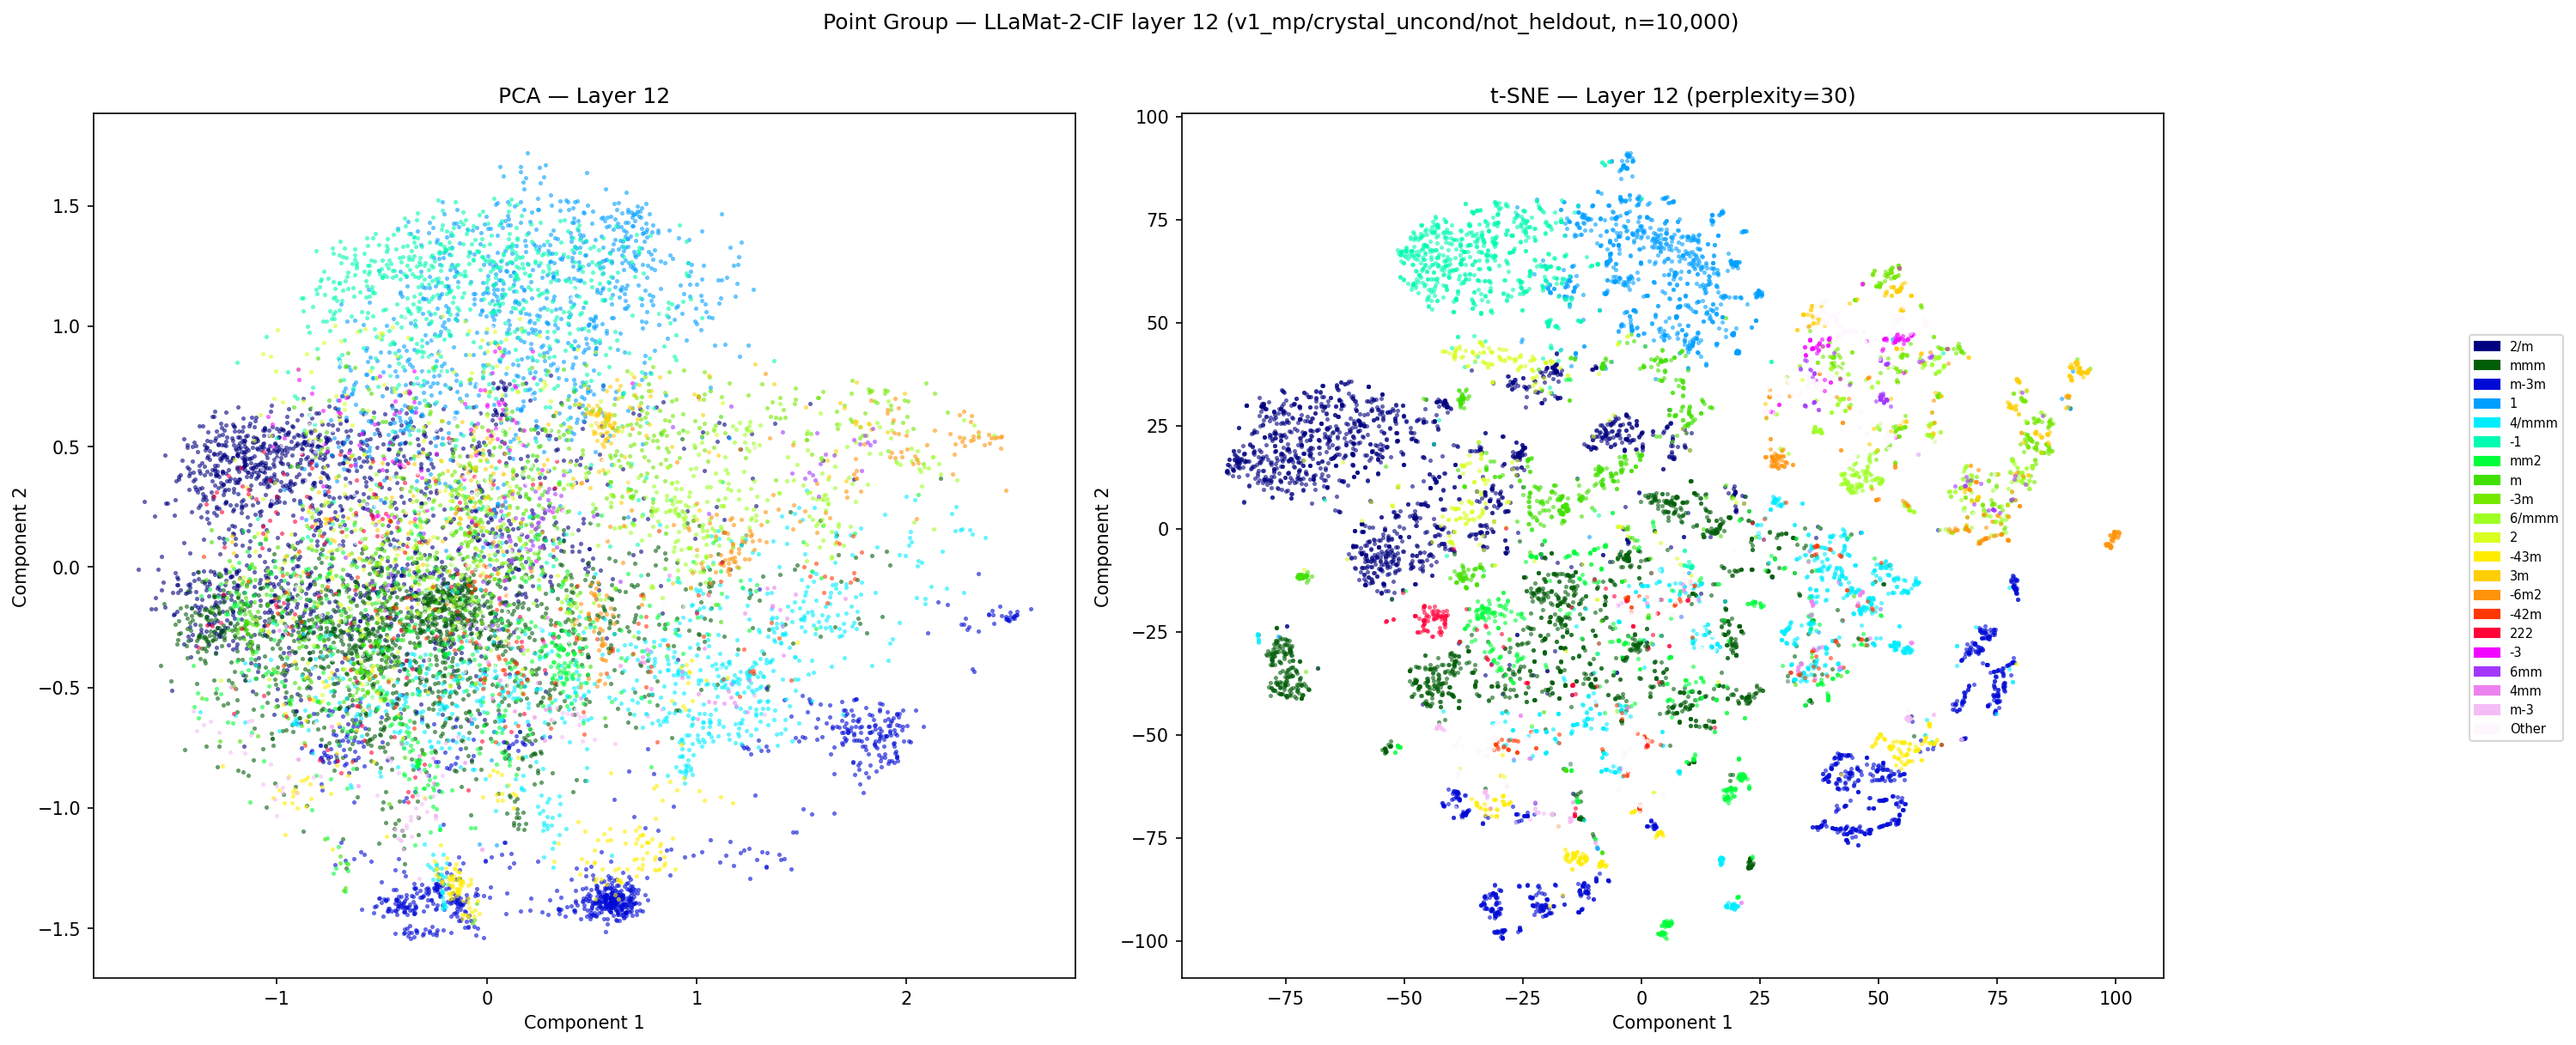
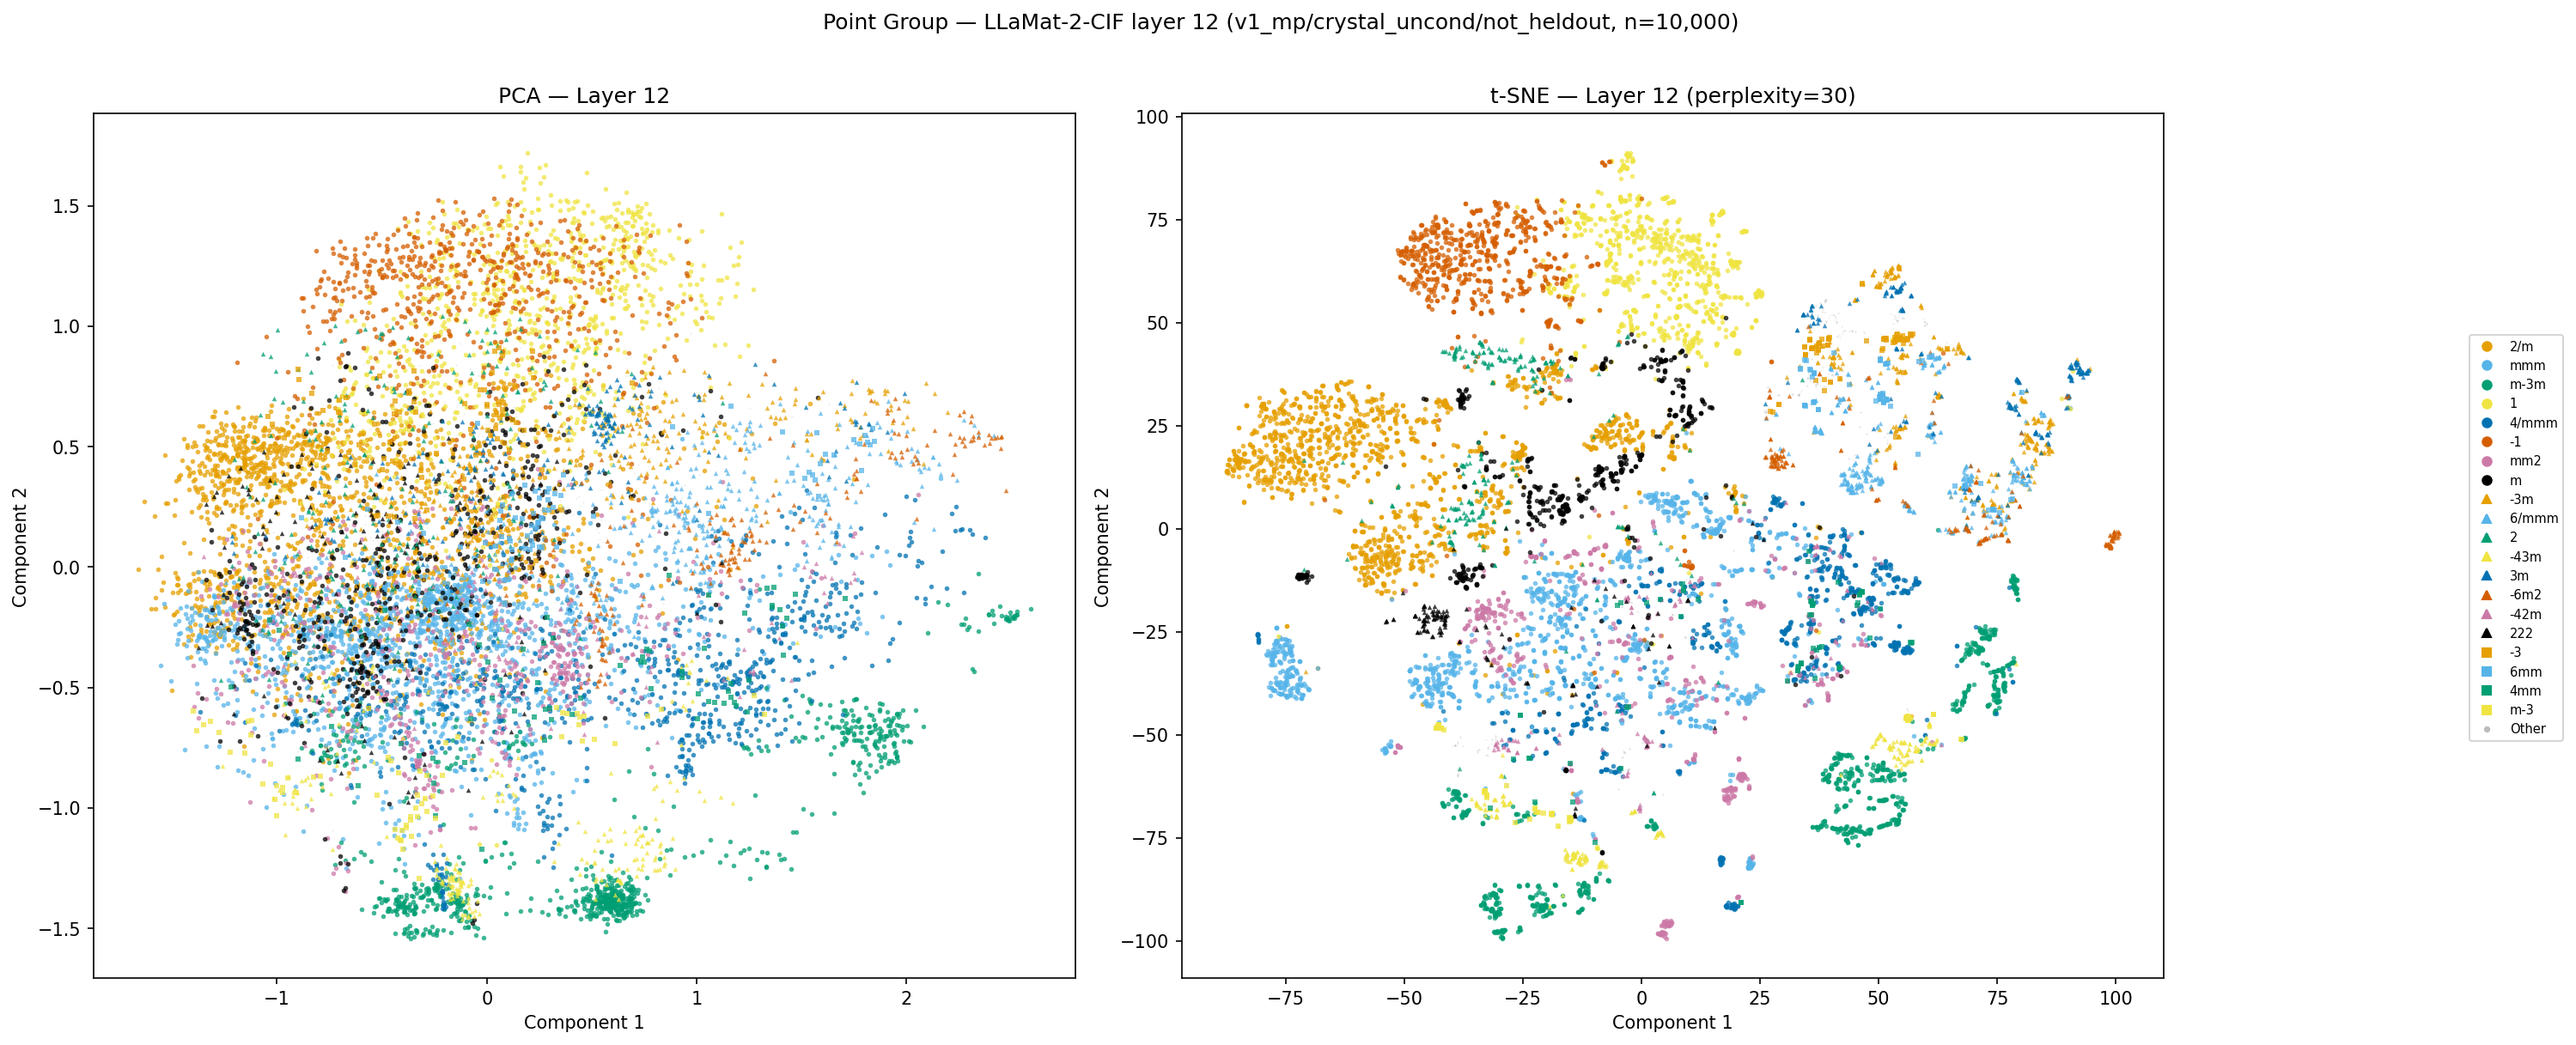
Categorical t-SNE/PCA: colour x marker, not 21 rainbow hues
With 21 categories the script fell past its tab20 branch into gist_ncar, a
rainbow colormap. Pm-3m and Immm came out 0.125 apart in RGB, P4/mmm and
P6_3/mmc 0.200; anything under ~0.25 is not reliably distinguishable. Two
different labels in two different clusters therefore looked like one label
scattered across the plot -- the figures read as if the labels were wrong.

They were not. Checked: 200/200 stated space group symbols match what pymatgen's
SpacegroupAnalyzer derives from the coordinates, the symbol -> point group
mapping is right on all 12 most common, no symbol maps to two point groups, and
the scatter and legend already shared one colour lookup.

Okabe-Ito (colourblind-safe) x 3 markers gives 24 distinguishable series; the
marker carries the distinction where a hue repeats, so the legend now draws
marker+colour rather than a swatch. Other is faint grey and stops competing with
real classes.

Claude-Session: https://claude.ai/code/session_01EpX8vDJ69TxFi8fcSiWVWg

diff --git a/scripts/plots/plot_tsne_pca_categorical.py b/scripts/plots/plot_tsne_pca_categorical.py
@@ -17,6 +17,7 @@ import matplotlib
 matplotlib.use("Agg")
 import matplotlib.pyplot as plt
 import matplotlib.patches as mpatches
+import matplotlib.lines as mlines
 from pathlib import Path
 from sklearn.decomposition import PCA
 from sklearn.manifold import TSNE
@@ -79,13 +80,23 @@ def main():
     codes = df["label"].map(label2int).values
     n_colors = len(ordered)
 
-    # pick a colormap with enough distinct colors
-    if n_colors <= 20:
-        cmap = plt.get_cmap("tab20", n_colors)
-    else:
-        cmap = plt.get_cmap("gist_ncar", n_colors)
-
-    colors = [cmap(label2int[lbl]) for lbl in df["label"]]
+    # COLOUR x MARKER, not 21 hues. The previous version fell back to gist_ncar -- a
+    # rainbow colormap -- once there were more than 20 categories, which put Pm-3m and
+    # Immm 0.125 apart in RGB and P4/mmm and P6_3/mmc 0.200 apart. Anything under ~0.25
+    # is not reliably distinguishable, so two different labels in two different clusters
+    # looked like one label scattered across the plot, i.e. like the labels were wrong.
+    #
+    # Okabe-Ito is colourblind-safe; 8 hues x 3 markers gives 24 series that stay
+    # distinguishable, and the marker carries the distinction when the hue repeats.
+    OKABE_ITO = ["#E69F00", "#56B4E9", "#009E73", "#F0E442",
+                 "#0072B2", "#D55E00", "#CC79A7", "#000000"]
+    MARKERS = ["o", "^", "s"]
+    if n_colors > len(OKABE_ITO) * len(MARKERS):
+        print(f"  ! {n_colors} categories exceeds the {len(OKABE_ITO)*len(MARKERS)} "
+              f"distinguishable combinations -- lower --top-n")
+    style = {lbl: (OKABE_ITO[i % len(OKABE_ITO)], MARKERS[i // len(OKABE_ITO)])
+             for i, lbl in enumerate(ordered)}
+    style["Other"] = ("#BBBBBB", ".")          # never competes with a real class
 
     X = np.vstack(df["embedding"].values)
     prop_title = args.property.replace("_", " ").title()
@@ -107,9 +118,11 @@ def main():
     ]:
         for lbl in ordered:
             mask = df["label"].values == lbl
-            ax.scatter(coords[mask, 0], coords[mask, 1],
-                       c=[cmap(label2int[lbl])],
-                       s=6, alpha=0.6, linewidths=0, label=lbl)
+            colour, marker = style[lbl]
+            ax.scatter(coords[mask, 0], coords[mask, 1], c=colour, marker=marker,
+                       s=7 if lbl != "Other" else 4,
+                       alpha=0.75 if lbl != "Other" else 0.25,
+                       linewidths=0, label=lbl)
         # perplexity is a t-SNE hyperparameter only; it means nothing for PCA
         detail = f" (perplexity={args.tsne_perplexity:g})" if method == "t-SNE" else ""
         ax.set_title(f"{method} — Layer {args.layer}{detail}")
@@ -117,7 +130,10 @@ def main():
         ax.set_ylabel("Component 2")
 
     # shared legend outside the plots
-    handles = [mpatches.Patch(color=cmap(label2int[lbl]), label=lbl) for lbl in ordered]
+    # Line2D, not Patch: the marker is half the identity now, so the legend has to show it
+    handles = [mlines.Line2D([], [], color=style[lbl][0], marker=style[lbl][1],
+                             linestyle="none", markersize=5, label=lbl)
+               for lbl in ordered]
     fig.legend(handles=handles, loc="center right", bbox_to_anchor=(1.0, 0.5),
                fontsize=7, ncol=1, framealpha=0.8)
 
